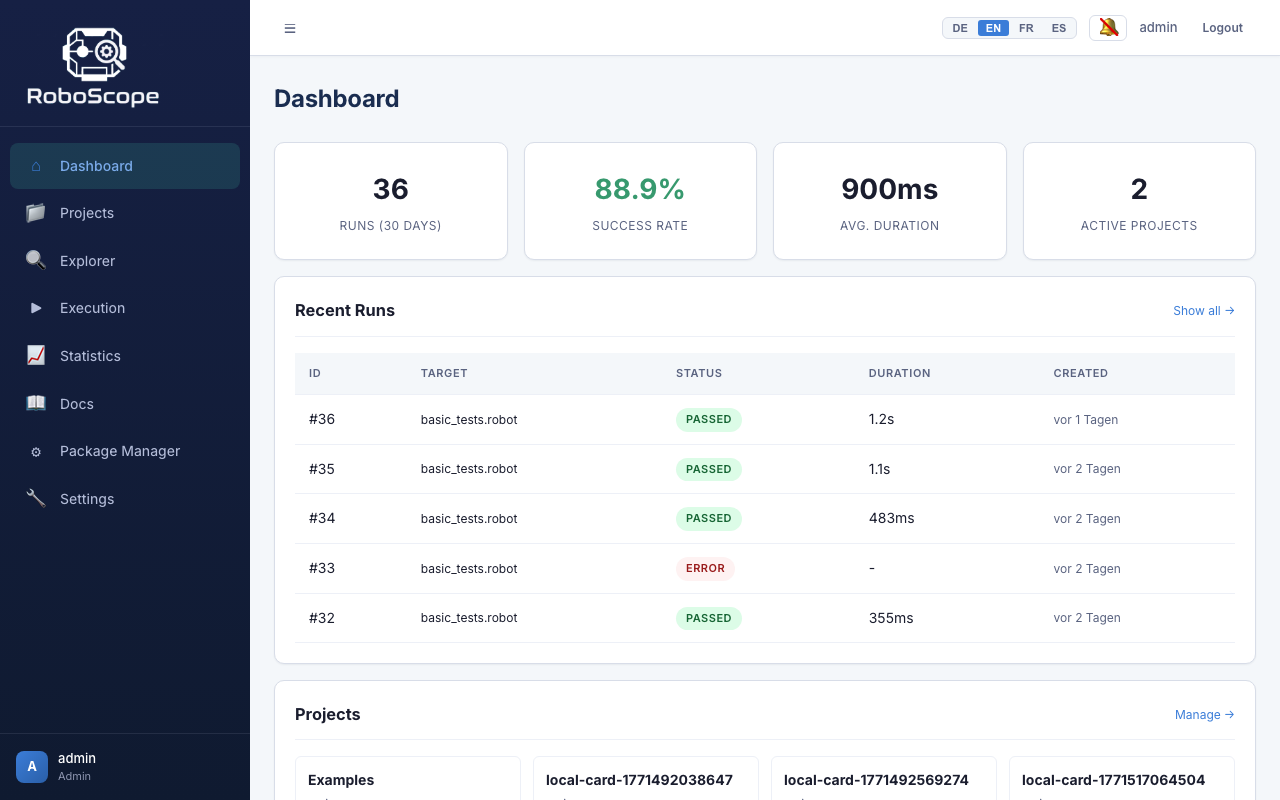
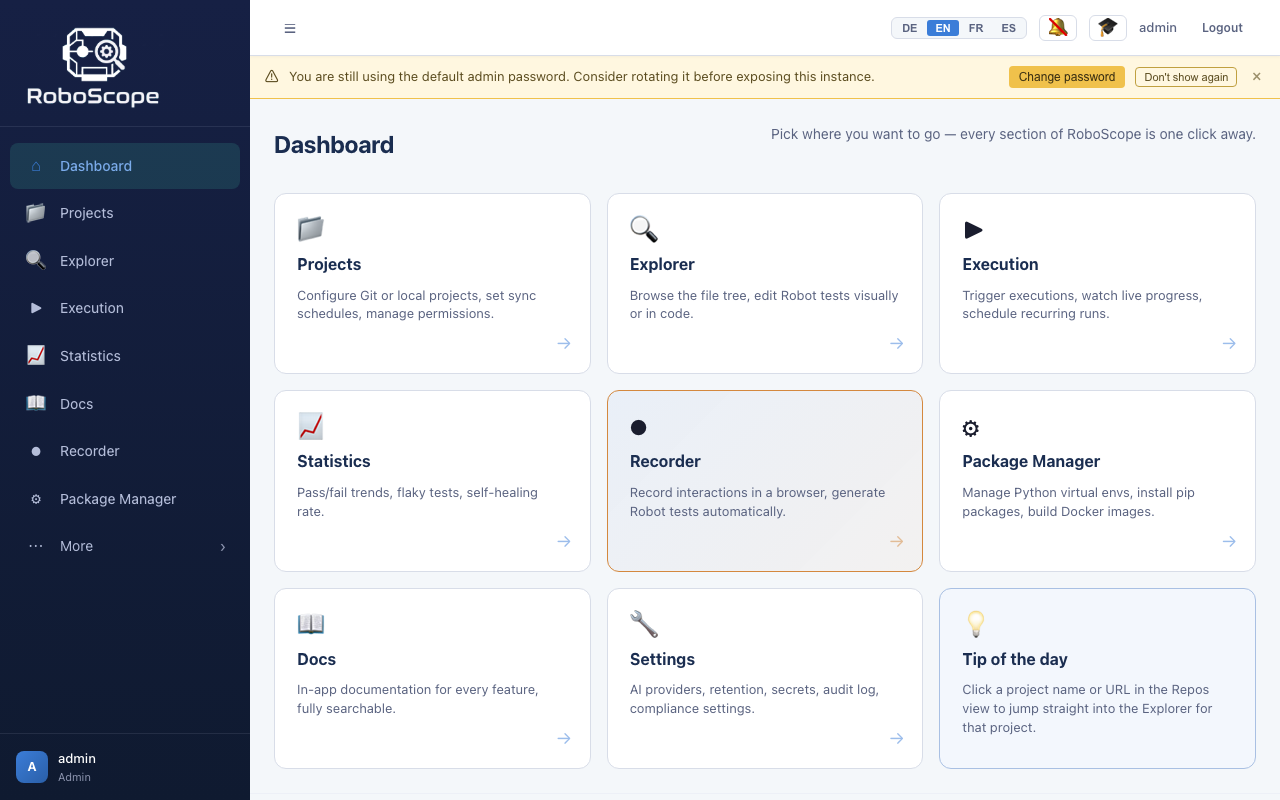
docs(0.9.0): close remaining doc gaps — recorder verif, CLAUDE gotchas, dashboard screenshot
Last sweep before release:

1. **Recorder docs — selector verification & Shadow DOM**
   New `recorder-selector-verification` topic in all 4 langs sitting
   between `recorder-anatomy` and `recorder-extension`. Covers:
   - Visibility-aware uniqueness ranking ({ total, visible,
     actionable }) with the gold / verified / hidden / multi-match
     tiers + their score penalties.
   - Parent-context CSS disambiguation (the
     `#checkout-form button.submit-btn` rewrite that prevents the
     #1 Playwright strict-mode failure source at replay).
   - Shadow DOM aware capture (`composedPath()[0]` retargeting,
     ancestor walk crossing shadow boundaries via the host) and
     the `host >> inner` chained Playwright locator emitted by the
     synthesis layer when `in_shadow_dom` is set.
   - Closed-shadow-root caveat: closed roots are opaque to userspace
     JS, so closed-root elements fall back to the host selector.

2. **CLAUDE.md — four new critical-pattern gotchas**
   Added to the "Critical patterns & gotchas" list:
   - Setting-meta side-note inputs MUST use a draft buffer (mirrors
     the cloneStep contract for step args; if a future panel
     v-models straight into `props.form` the deep watcher tears
     `selectedNode` down on every keystroke).
   - Setting-meta stacking pitch (`META_PITCH = 96`) + CSS
     `max-height: 76px` + line-clamp 2 are tuned together; bumping
     pitch lower without tightening clamp lets [Documentation]
[…]

diff --git a/frontend/src/docs/content/de.ts b/frontend/src/docs/content/de.ts
@@ -706,6 +706,77 @@ Recording 21
 </p>`
       },
       {
+        id: 'recorder-selector-verification',
+        title: 'Selektor-Verifikation &amp; Shadow DOM',
+        content: `
+<p>
+  Jede aufgenommene Aktion erh\u00E4lt eine Liste von Selektor-Kandidaten &mdash;
+  <code>data-testid</code>, <code>role + name</code>, <code>text</code>,
+  <code>css</code> (id, Klasse, parent-scoped), <code>xpath</code> und eine
+  Shadow-DOM-aware <code>host &gt;&gt; inner</code>-Kette wo passend.
+  RoboScope rankt sie so, dass der aktive Kandidat die Strict-Mode-Regel
+  von Playwright bei Replay \u00FCbersteht.
+</p>
+<h4>Sichtbarkeits-bewusste Eindeutigkeit</h4>
+<p>
+  Beim Capture l\u00F6st der Verifier jeden Kandidaten gegen die Live-Seite in
+  einem einzigen <code>evaluate_all</code>-Roundtrip auf und liefert
+  <code>{ total, visible, actionable }</code>:
+</p>
+<ul>
+  <li><strong>actionable = 1</strong> &mdash; Gold; genau ein
+  sichtbarer + klickbarer Treffer.</li>
+  <li><strong>visible = 1</strong> &mdash; verifiziert, kleine
+  Strafe (-5); Element ist sichtbar aber deaktiviert
+  (z. B. read-only Input).</li>
+  <li><strong>visible &ge; 2</strong> &mdash; Multi-Match; in eine
+  strategie-spezifische <code>:nth-match(1)</code> /
+  <code>... &gt;&gt; nth=0</code>-Form umgeschrieben, damit Strict-
+  Mode-Replay trotzdem genau ein Element trifft. Strafe -15, sodass
+  ein Parent-kontextualisierter Alternativ-Kandidat vorbeizieht,
+  wenn vorhanden.</li>
+  <li><strong>visible = 0, total &ge; 1</strong> &mdash; Element ist
+  versteckt; nur als Notnagel behalten (-25), damit ein sp\u00E4terer
+  Auto-Heal es ausprobieren kann, aber jede sichtbare Alternative
+  gewinnt.</li>
+  <li><strong>total = 0</strong> &mdash; Selektor zeigt auf nichts,
+  f\u00E4llt raus.</li>
+</ul>
+<h4>Parent-Kontext-Disambiguierung</h4>
+<p>
+  Ein nacktes <code>button.submit-btn</code>, das jeden Submit-Button
+  auf der Seite trifft, ist die h\u00E4ufigste Strict-Mode-Failure-Quelle
+  bei Replay. Die CSS-Strategie emittiert daher zus\u00E4tzlich eine
+  Vorfahren-gescopte Variante, sobald ein Vorfahre eine stabile id /
+  data-testid tr\u00E4gt &mdash; z. B.
+  <code>#checkout-form button.submit-btn</code> &mdash; mit
+  Quality-Bonus +10 gegen\u00FCber der nackten Klassen-Kette. Der
+  Verifier bevorzugt sie, wann immer sie disambiguiert.
+</p>
+<h4>Shadow DOM</h4>
+<p>
+  Das Capture-Skript nutzt f\u00FCr jedes Event
+  <code>ev.composedPath()[0]</code>, damit ein Klick in einer Open
+  Shadow Root das *echte* angeklickte Element erfasst, nicht den
+  Host im Light-DOM. Der Vorfahren-Walk \u00FCberquert Shadow-Grenzen
+  \u00FCber den Host-Knoten; jeder Vorfahre tr\u00E4gt ein
+  <code>is_shadow_host</code>-Flag.
+</p>
+<p>
+  Lebt das erfasste Element in einer (oder mehreren) Open Shadow
+  Roots, emittiert die Synthese einen Playwright-chained
+  <code>&lt;host-selector&gt; &gt;&gt; &lt;inner&gt;</code>-Kandidaten
+  (z. B. <code>my-dialog &gt;&gt; [data-testid=&quot;save-btn&quot;]</code>).
+  Das durchst\u00F6\u00DFt die Shadow-Grenze explizit &mdash; sich auf
+  Playwrights implizites Piercing zu verlassen ist Engine-abh\u00E4ngig
+  und auf Browser-Library / RF-Runner-Seite leicht falsch
+  konfigurierbar. Closed Shadow Roots bleiben f\u00FCr Userspace-JS
+  undurchsichtig, deshalb fallen Closed-Root-Elemente auf den
+  erfassten Host-Selektor zur\u00FCck.
+</p>`,
+        tip: 'In der Recorder-UI bedeutet ein gr\u00FCnes \u2713 neben einem Selektor, dass er auf der Live-Seite genau ein sichtbares + klickbares Element aufl\u00F6st. Mehrere Kandidaten erscheinen nach Rang sortiert \u2014 der Picker erlaubt, auf einen anderen umzuschalten, falls die Auto-Wahl nicht passt.'
+      },
+      {
         id: 'recorder-extension',
         title: 'Chrome-Erweiterung',
         content: `

diff --git a/frontend/src/docs/content/fr.ts b/frontend/src/docs/content/fr.ts
@@ -725,6 +725,77 @@ Recording 21
 </p>`
       },
       {
+        id: 'recorder-selector-verification',
+        title: 'V\u00E9rification des s\u00E9lecteurs &amp; Shadow DOM',
+        content: `
+<p>
+  Chaque action captur\u00E9e est livr\u00E9e avec une liste de s\u00E9lecteurs candidats
+  &mdash; <code>data-testid</code>, <code>role + name</code>, <code>text</code>,
+  <code>css</code> (id, classe, parent-scoped), <code>xpath</code> et une
+  cha\u00EEne <code>host &gt;&gt; inner</code> compatible Shadow DOM lorsque
+  c\u2019est applicable. RoboScope les classe pour que le candidat actif
+  survive au contrat de mode strict de Playwright lors du replay.
+</p>
+<h4>Unicit\u00E9 sensible \u00E0 la visibilit\u00E9</h4>
+<p>
+  \u00C0 la capture, le v\u00E9rificateur r\u00E9sout chaque candidat sur la page en
+  direct dans un seul aller-retour <code>evaluate_all</code> et renvoie
+  <code>{ total, visible, actionable }</code>:
+</p>
+<ul>
+  <li><strong>actionable = 1</strong> &mdash; or; exactement une
+  correspondance visible + cliquable.</li>
+  <li><strong>visible = 1</strong> &mdash; v\u00E9rifi\u00E9, l\u00E9g\u00E8re p\u00E9nalit\u00E9
+  (-5); l\u2019\u00E9l\u00E9ment est visible mais d\u00E9sactiv\u00E9 (par ex. champ en
+  lecture seule).</li>
+  <li><strong>visible &ge; 2</strong> &mdash; multi-correspondance;
+  r\u00E9\u00E9crit en <code>:nth-match(1)</code> /
+  <code>... &gt;&gt; nth=0</code> selon la strat\u00E9gie pour qu\u2019un
+  replay en mode strict choisisse quand m\u00EAme un \u00E9l\u00E9ment. P\u00E9nalit\u00E9
+  -15 pour qu\u2019un alternatif d\u00E9sambigu\u00E9 par parent-context passe
+  devant si disponible.</li>
+  <li><strong>visible = 0, total &ge; 1</strong> &mdash; \u00E9l\u00E9ment
+  cach\u00E9; conserv\u00E9 en filet de secours (-25) pour qu\u2019un futur
+  auto-heal puisse l\u2019essayer, mais toute alternative visible
+  l\u2019emporte.</li>
+  <li><strong>total = 0</strong> &mdash; s\u00E9lecteur ne pointe sur
+  rien, abandonn\u00E9.</li>
+</ul>
+<h4>D\u00E9sambigu\u00EFsation par contexte parent</h4>
+<p>
+  Un <code>button.submit-btn</code> nu correspondant \u00E0 chaque bouton
+  Submit de la page est la cause la plus fr\u00E9quente d\u2019\u00E9chec en mode
+  strict de Playwright au replay. La strat\u00E9gie CSS \u00E9met donc aussi
+  une variante port\u00E9e par un anc\u00EAtre d\u00E8s qu\u2019un anc\u00EAtre stable
+  porte un id / data-testid &mdash; par ex.
+  <code>#checkout-form button.submit-btn</code> &mdash; avec un
+  bonus de qualit\u00E9 +10 sur la cha\u00EEne nue. Le v\u00E9rificateur la
+  pr\u00E9f\u00E8re d\u00E8s qu\u2019elle d\u00E9sambigue.
+</p>
+<h4>Shadow DOM</h4>
+<p>
+  Le script de capture utilise <code>ev.composedPath()[0]</code>
+  pour chaque \u00E9v\u00E9nement, afin qu\u2019un clic dans une shadow root
+  ouverte capture le *vrai* \u00E9l\u00E9ment cliqu\u00E9 et non l\u2019h\u00F4te du
+  light DOM. La marche d\u2019anc\u00EAtres traverse les fronti\u00E8res
+  shadow via le n\u0153ud h\u00F4te; chaque anc\u00EAtre porte un drapeau
+  <code>is_shadow_host</code>.
+</p>
+<p>
+  Quand l\u2019\u00E9l\u00E9ment captur\u00E9 vit dans une (ou plusieurs) shadow roots
+  ouvertes, la synth\u00E8se \u00E9met un candidat Playwright cha\u00EEn\u00E9
+  <code>&lt;host-selector&gt; &gt;&gt; &lt;inner&gt;</code> (par ex.
+  <code>my-dialog &gt;&gt; [data-testid=&quot;save-btn&quot;]</code>).
+  Cela traverse explicitement la fronti\u00E8re shadow &mdash; se
+  reposer sur le piercing implicite de Playwright d\u00E9pend du
+  moteur et est facile \u00E0 mal configurer c\u00F4t\u00E9 Browser library /
+  ex\u00E9cuteur RF. Les shadow roots ferm\u00E9es restent opaques pour le
+  JS userspace, donc les \u00E9l\u00E9ments en root ferm\u00E9e retombent sur
+  le s\u00E9lecteur de l\u2019h\u00F4te captur\u00E9.
+</p>`,
+        tip: 'Dans l\u2019interface du recorder, un \u2713 vert \u00E0 c\u00F4t\u00E9 d\u2019un s\u00E9lecteur indique qu\u2019il r\u00E9sout vers un seul \u00E9l\u00E9ment visible + actionnable sur la page en direct. Plusieurs candidats apparaissent tri\u00E9s par rang \u2014 le s\u00E9lecteur permet de basculer vers un autre si l\u2019auto-choix ne correspond pas \u00E0 votre intention.'
+      },
+      {
         id: 'recorder-extension',
         title: 'Extension Chrome',
         content: `

diff --git a/frontend/src/docs/content/es.ts b/frontend/src/docs/content/es.ts
@@ -744,6 +744,76 @@ Recording 21
 </p>`
       },
       {
+        id: 'recorder-selector-verification',
+        title: 'Verificaci\u00F3n de selectores &amp; Shadow DOM',
+        content: `
+<p>
+  Cada acci\u00F3n capturada se env\u00EDa con una lista de selectores candidatos
+  &mdash; <code>data-testid</code>, <code>role + name</code>, <code>text</code>,
+  <code>css</code> (id, clase, parent-scoped), <code>xpath</code>, y una
+  cadena <code>host &gt;&gt; inner</code> aware de Shadow DOM cuando aplica.
+  RoboScope los clasifica para que el candidato activo sobreviva al
+  contrato de modo estricto de Playwright en el replay.
+</p>
+<h4>Unicidad consciente de la visibilidad</h4>
+<p>
+  Al capturar, el verificador resuelve cada candidato contra la p\u00E1gina
+  en vivo en un \u00FAnico viaje <code>evaluate_all</code> y devuelve
+  <code>{ total, visible, actionable }</code>:
+</p>
+<ul>
+  <li><strong>actionable = 1</strong> &mdash; oro; exactamente una
+  coincidencia visible + cliqueable.</li>
+  <li><strong>visible = 1</strong> &mdash; verificado, penalizaci\u00F3n
+  ligera (-5); el elemento es visible pero est\u00E1 deshabilitado
+  (ej. input read-only).</li>
+  <li><strong>visible &ge; 2</strong> &mdash; multi-coincidencia;
+  reescrito a un <code>:nth-match(1)</code> /
+  <code>... &gt;&gt; nth=0</code> seg\u00FAn la estrategia para que el
+  replay en modo estricto siga eligiendo un elemento. Penalizaci\u00F3n
+  -15 para que una alternativa desambiguada por contexto-padre
+  gane cuando exista.</li>
+  <li><strong>visible = 0, total &ge; 1</strong> &mdash; elemento
+  oculto; mantenido como red de seguridad (-25) para que un futuro
+  auto-heal pueda probarlo, pero cualquier alternativa visible
+  gana siempre.</li>
+  <li><strong>total = 0</strong> &mdash; el selector apunta a nada,
+  descartado.</li>
+</ul>
+<h4>Desambiguaci\u00F3n por contexto padre</h4>
+<p>
+  Un <code>button.submit-btn</code> desnudo que coincida con todos
+  los botones Submit de la p\u00E1gina es la causa m\u00E1s com\u00FAn de fallo
+  de modo estricto de Playwright en el replay. La estrategia CSS
+  ahora tambi\u00E9n emite una variante con scope de ancestro siempre
+  que un ancestro estable tenga id / data-testid &mdash; ej.
+  <code>#checkout-form button.submit-btn</code> &mdash; con un
+  bonus de calidad +10 sobre la cadena desnuda. El verificador la
+  prefiere siempre que desambig\u00FCe.
+</p>
+<h4>Shadow DOM</h4>
+<p>
+  El script de captura usa <code>ev.composedPath()[0]</code> en
+  cada evento para que un clic dentro de una shadow root abierta
+  capture el elemento *real* clicado, no el host en el light DOM.
+  La caminata de ancestros cruza fronteras shadow v\u00EDa el nodo
+  host; cada ancestro lleva una bandera <code>is_shadow_host</code>.
+</p>
+<p>
+  Cuando el elemento capturado vive dentro de una (o varias)
+  shadow roots abiertas, la s\u00EDntesis emite un candidato Playwright
+  encadenado <code>&lt;host-selector&gt; &gt;&gt; &lt;inner&gt;</code>
+  (ej. <code>my-dialog &gt;&gt; [data-testid=&quot;save-btn&quot;]</code>).
+  Esto atraviesa expl\u00EDcitamente la frontera shadow &mdash; depender
+  del piercing impl\u00EDcito de Playwright depende del motor y es
+  f\u00E1cil de configurar mal en el lado Browser library / runner RF.
+  Las shadow roots cerradas siguen siendo opacas para el JS
+  userspace, as\u00ED que los elementos en root cerrada caen al
+  selector del host capturado.
+</p>`,
+        tip: 'En la UI del recorder, una \u2713 verde junto a un selector significa que resuelve a un \u00FAnico elemento visible + accionable en la p\u00E1gina en vivo. Varios candidatos aparecen ordenados por rango \u2014 el selector permite cambiar a otro si la elecci\u00F3n autom\u00E1tica no coincide con su intenci\u00F3n.'
+      },
+      {
         id: 'recorder-extension',
         title: 'Extensi\u00F3n de Chrome',
         content: `

diff --git a/frontend/src/docs/content/en.ts b/frontend/src/docs/content/en.ts
@@ -730,6 +730,71 @@ Recording 21
 </p>`
       },
       {
+        id: 'recorder-selector-verification',
+        title: 'Selector verification &amp; Shadow DOM',
+        content: `
+<p>
+  Every captured action ships with a list of selector candidates &mdash;
+  <code>data-testid</code>, <code>role + name</code>, <code>text</code>,
+  <code>css</code> (id, class, parent-scoped), <code>xpath</code>, and a
+  Shadow-DOM-aware <code>host &gt;&gt; inner</code> chain when applicable.
+  RoboScope ranks them so the active candidate is the one that survives
+  Playwright's strict-mode contract at replay.
+</p>
+<h4>Visibility-aware uniqueness</h4>
+<p>
+  At capture time the verifier resolves each candidate against the live
+  page in a single <code>evaluate_all</code> round-trip and returns
+  <code>{ total, visible, actionable }</code> counts:
+</p>
+<ul>
+  <li><strong>actionable = 1</strong> &mdash; gold; exactly one
+  visible + clickable match.</li>
+  <li><strong>visible = 1</strong> &mdash; verified, light penalty
+  (-5); element is visible but disabled (e.g. read-only input).</li>
+  <li><strong>visible &ge; 2</strong> &mdash; multi-match; rewritten
+  to a strategy-specific <code>:nth-match(1)</code> /
+  <code>... &gt;&gt; nth=0</code> form so strict-mode replay still
+  picks one element. Penalty -15 so a parent-context-disambiguated
+  alternative outranks it whenever one exists.</li>
+  <li><strong>visible = 0, total &ge; 1</strong> &mdash; element is
+  hidden; kept as a desperate fallback (penalty -25) so a future
+  auto-heal can try it but a visible alternative always wins.</li>
+  <li><strong>total = 0</strong> &mdash; selector points at nothing,
+  dropped.</li>
+</ul>
+<h4>Parent-context disambiguation</h4>
+<p>
+  A bare <code>button.submit-btn</code> matching every submit
+  button on the page is the most common Playwright strict-mode
+  failure at replay. The CSS strategy now also emits an ancestor-
+  scoped variant whenever a stable id / data-testid exists on an
+  ancestor &mdash; e.g. <code>#checkout-form button.submit-btn</code>
+  &mdash; with quality bonus +10 over the bare chain. The verifier
+  prefers it whenever it disambiguates.
+</p>
+<h4>Shadow DOM</h4>
+<p>
+  The capture script uses <code>ev.composedPath()[0]</code> for
+  every event so a click inside an open shadow root captures the
+  *real* clicked element, not the host in the light DOM. The
+  ancestor walk crosses shadow boundaries via the host node, and
+  each ancestor carries an <code>is_shadow_host</code> flag.
+</p>
+<p>
+  When the captured element lives inside one or more open shadow
+  roots, the synthesis emits a Playwright-chained
+  <code>&lt;host-selector&gt; &gt;&gt; &lt;inner&gt;</code> candidate
+  (e.g. <code>my-dialog &gt;&gt; [data-testid=&quot;save-btn&quot;]</code>).
+  This pierces the shadow boundary explicitly &mdash; relying on
+  Playwright's implicit piercing is engine-dependent and easy to
+  misconfigure on the Browser-library / RF runner side. Closed
+  shadow roots are still opaque to userspace JS, so closed-root
+  elements fall back to the captured-host selector.
+</p>`,
+        tip: 'In the recorder UI a green ✓ indicator next to a selector means it resolves to a single visible + actionable element on the live page. Multiple candidates are shown sorted by rank — the picker lets you swap to a different one if the auto-pick does not match your intent.'
+      },
+      {
         id: 'recorder-extension',
         title: 'Chrome Extension',
         content: `

diff --git a/CLAUDE.md b/CLAUDE.md
@@ -67,6 +67,10 @@ Swagger: `http://localhost:8000/api/v1/docs`
 - **Recorded `New Page` MUST emit `wait_until=domcontentloaded`**: Playwright's default `wait_until="load"` waits for every ad/tracker subresource. On real-world pages (`heise.de` etc.) the `load` event routinely never fires within the Browser-library 10s context timeout, even though the page is visually loaded and interactive. `domcontentloaded` is the right level for recorded flows — the page is parsed, any subsequent Click / Type Text / Scroll To Element finds its target. Both emitters (`recording/generator.py`, `recording/robot_emit.py`) write the explicit `wait_until=` and the regression assertions in `test_generator.py` / `test_robot_emit.py` pin it. Run 32 reproduced exactly this bug.
 - **Recorded `${HEADLESS}` reference REQUIRES the `*** Variables ***` definition**: `robot_emit.py` writes `New Browser    chromium    headless=${HEADLESS}` so users can flip head/headless without editing the test body. It MUST also emit a `*** Variables ***` block with `${HEADLESS}    false` (default `false` — recorded tests come from clicking through a real page, so headed-by-default matches user intent). Without the definition, RF refuses to start with `Variable '${HEADLESS}' not found.`. If you add another `${VAR}` reference to the bootstrap, add the corresponding definition in the same place.
 - **Bool checkbox in FlowEditor MUST preserve the `name=` prefix**: `selectedNodeData.step.args[i]` may be `force=True` (named-arg form). A naive `args[i] = writeBoolValue(checked)` overwrites with bare `True`, which on re-render makes `specForSlot` fall back to a different positional spec — the checkbox vanishes mid-edit and a text input takes its place. `_NAMED_ARG_RE` strips the prefix in both `isBoolChecked` and `onBoolToggle`; signature defaults are consulted via `specForSlot(...).spec.defaultValue` for empty value-half slots like `force=`. The user-facing `{}` toggle in the detail panel is the escape hatch from the typed control to a free-text input (e.g. for `${HEADLESS}` on a bool slot).
+- **Setting-meta side-note inputs use a draft buffer, never v-model into the form**: same root cause as the cloneStep bullet above. The `[Documentation]` / `[Tags]` / `[Setup]` etc. side notes (`flow/flowConverter.ts::appendSettingMetaNodes`, type `setting-meta`) open a kind-aware detail panel whose textarea / input v-models into a local `settingDraft` ref in `FlowEditor.vue`, NOT into `props.form.testCases[i].documentation` directly. A dependency-keyed watcher reseeds the draft when the user clicks a different side note; `commitSettingDraft()` writes the buffered value back on blur, going through `rebuildAndReselect()` which sets `suppressFitView` so the deep watcher doesn't tear `selectedNode` down across the rebuild. Pinned by `FlowEditorSectionSwitch.spec.ts` + 2 e2e specs in `flow-editor-settings.spec.ts`. If you add another setting kind, add it to the `SettingKind` union, `TC_KINDS` / `KW_KINDS`, `KIND_LABELS`, plus the `settingTarget` / `settingDraft` get/commit branches AND the i18n `flowEditor.settingMeta.<kind>.{label,placeholder,hint,addTitle,removeTitle}` keys in EN/DE/FR/ES.
+- **Setting-meta side notes need ≥96px stacking pitch + height-clamped CSS**: `appendSettingMetaNodes` stacks side notes vertically at `META_PITCH = 96`. The CSS on `.flow-node-doc-meta` enforces `width: 240px`, `max-height: 76px`, `overflow: hidden`, plus `-webkit-line-clamp: 2` on `__text` (and 1 for non-doc kinds). If you bump `META_PITCH` lower without also tightening the line-clamp, a long [Documentation] preview can overflow into the [Tags] node below. The 96/76/2 numbers are tuned together — keep them in sync.
+- **Recorder capture script MUST use `composedPath()[0]`, not `ev.target`**: events fired inside an open shadow root surface with `ev.target` retargeted to the *host* in the light DOM. `recording/capture_script.py::realTarget(ev)` returns `ev.composedPath()[0]` (falling back to `ev.target` for closed roots). Every event handler (click, dblclick, change, keydown, dragstart, drop) goes through `realTarget`. The ancestor walk also crosses shadow boundaries via `crossShadow(el)`: when `parentElement` is null, jump to `getRootNode().host` if the root is a `ShadowRoot`. Each ancestor carries an `is_shadow_host` flag that the synthesis layer reads to emit a `host >> inner` chained Playwright locator (selector_synthesis.py::`_shadow_chain`). Pinned by `test_capture_script.py::TestShadowDomAwareness` + `test_selector_synthesis.py::TestShadowDom`. If you add a new event listener, route it through `realTarget` or shadow-DOM clicks fire on the wrong element.
+- **Recorder selector synthesis MUST emit a parent-context CSS variant**: `selector_synthesis.py::_css` emits not only `tag.classes` but also `<ancestor#id|testid> tag.classes` whenever a stable ancestor exists. A bare `button.submit-btn` matching every submit on the page is the most common Playwright strict-mode failure source at replay; pinning the nearest stable-id ancestor (quality_score `+10` over the bare class chain) cuts those misfires by orders of magnitude. The `_with_nth_match` rewrite in `selector_verification.py` is the *last-resort* fallback (penalty `-15`) when no parent context exists. Pinned by `test_selector_synthesis.py::TestParentContextCss`.
 
 ## Key API prefixes (`/api/v1/…`)
 